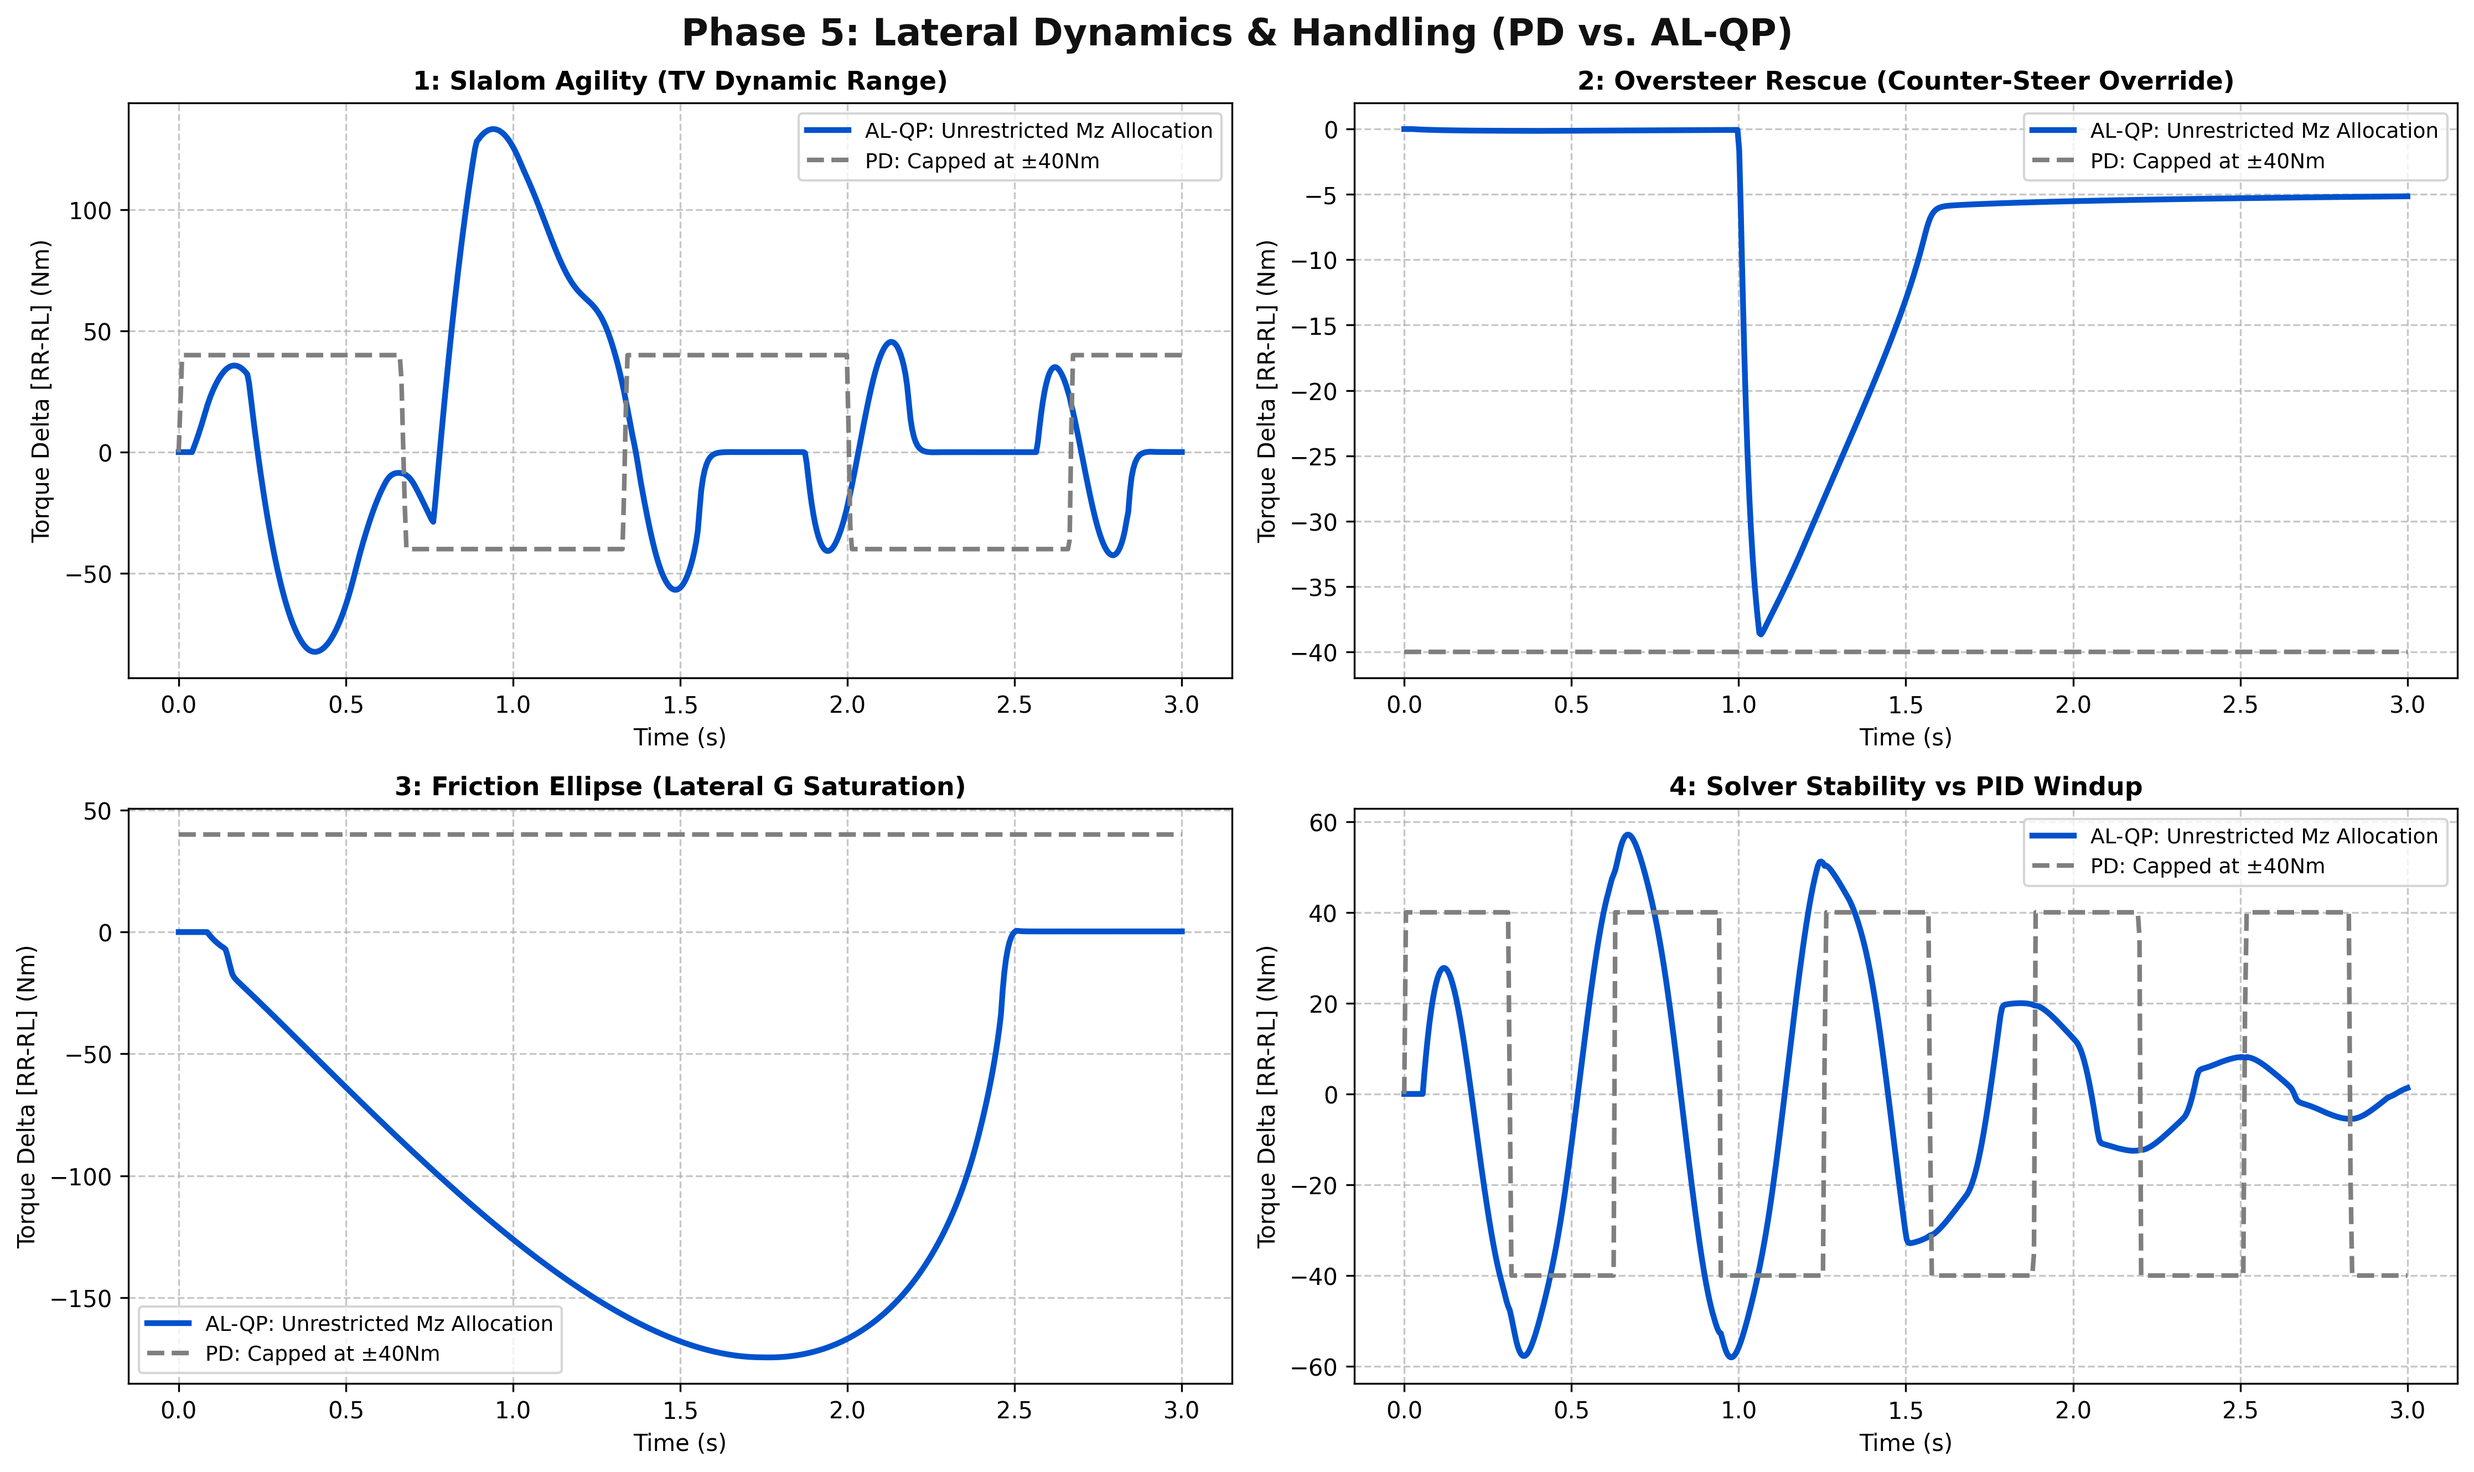
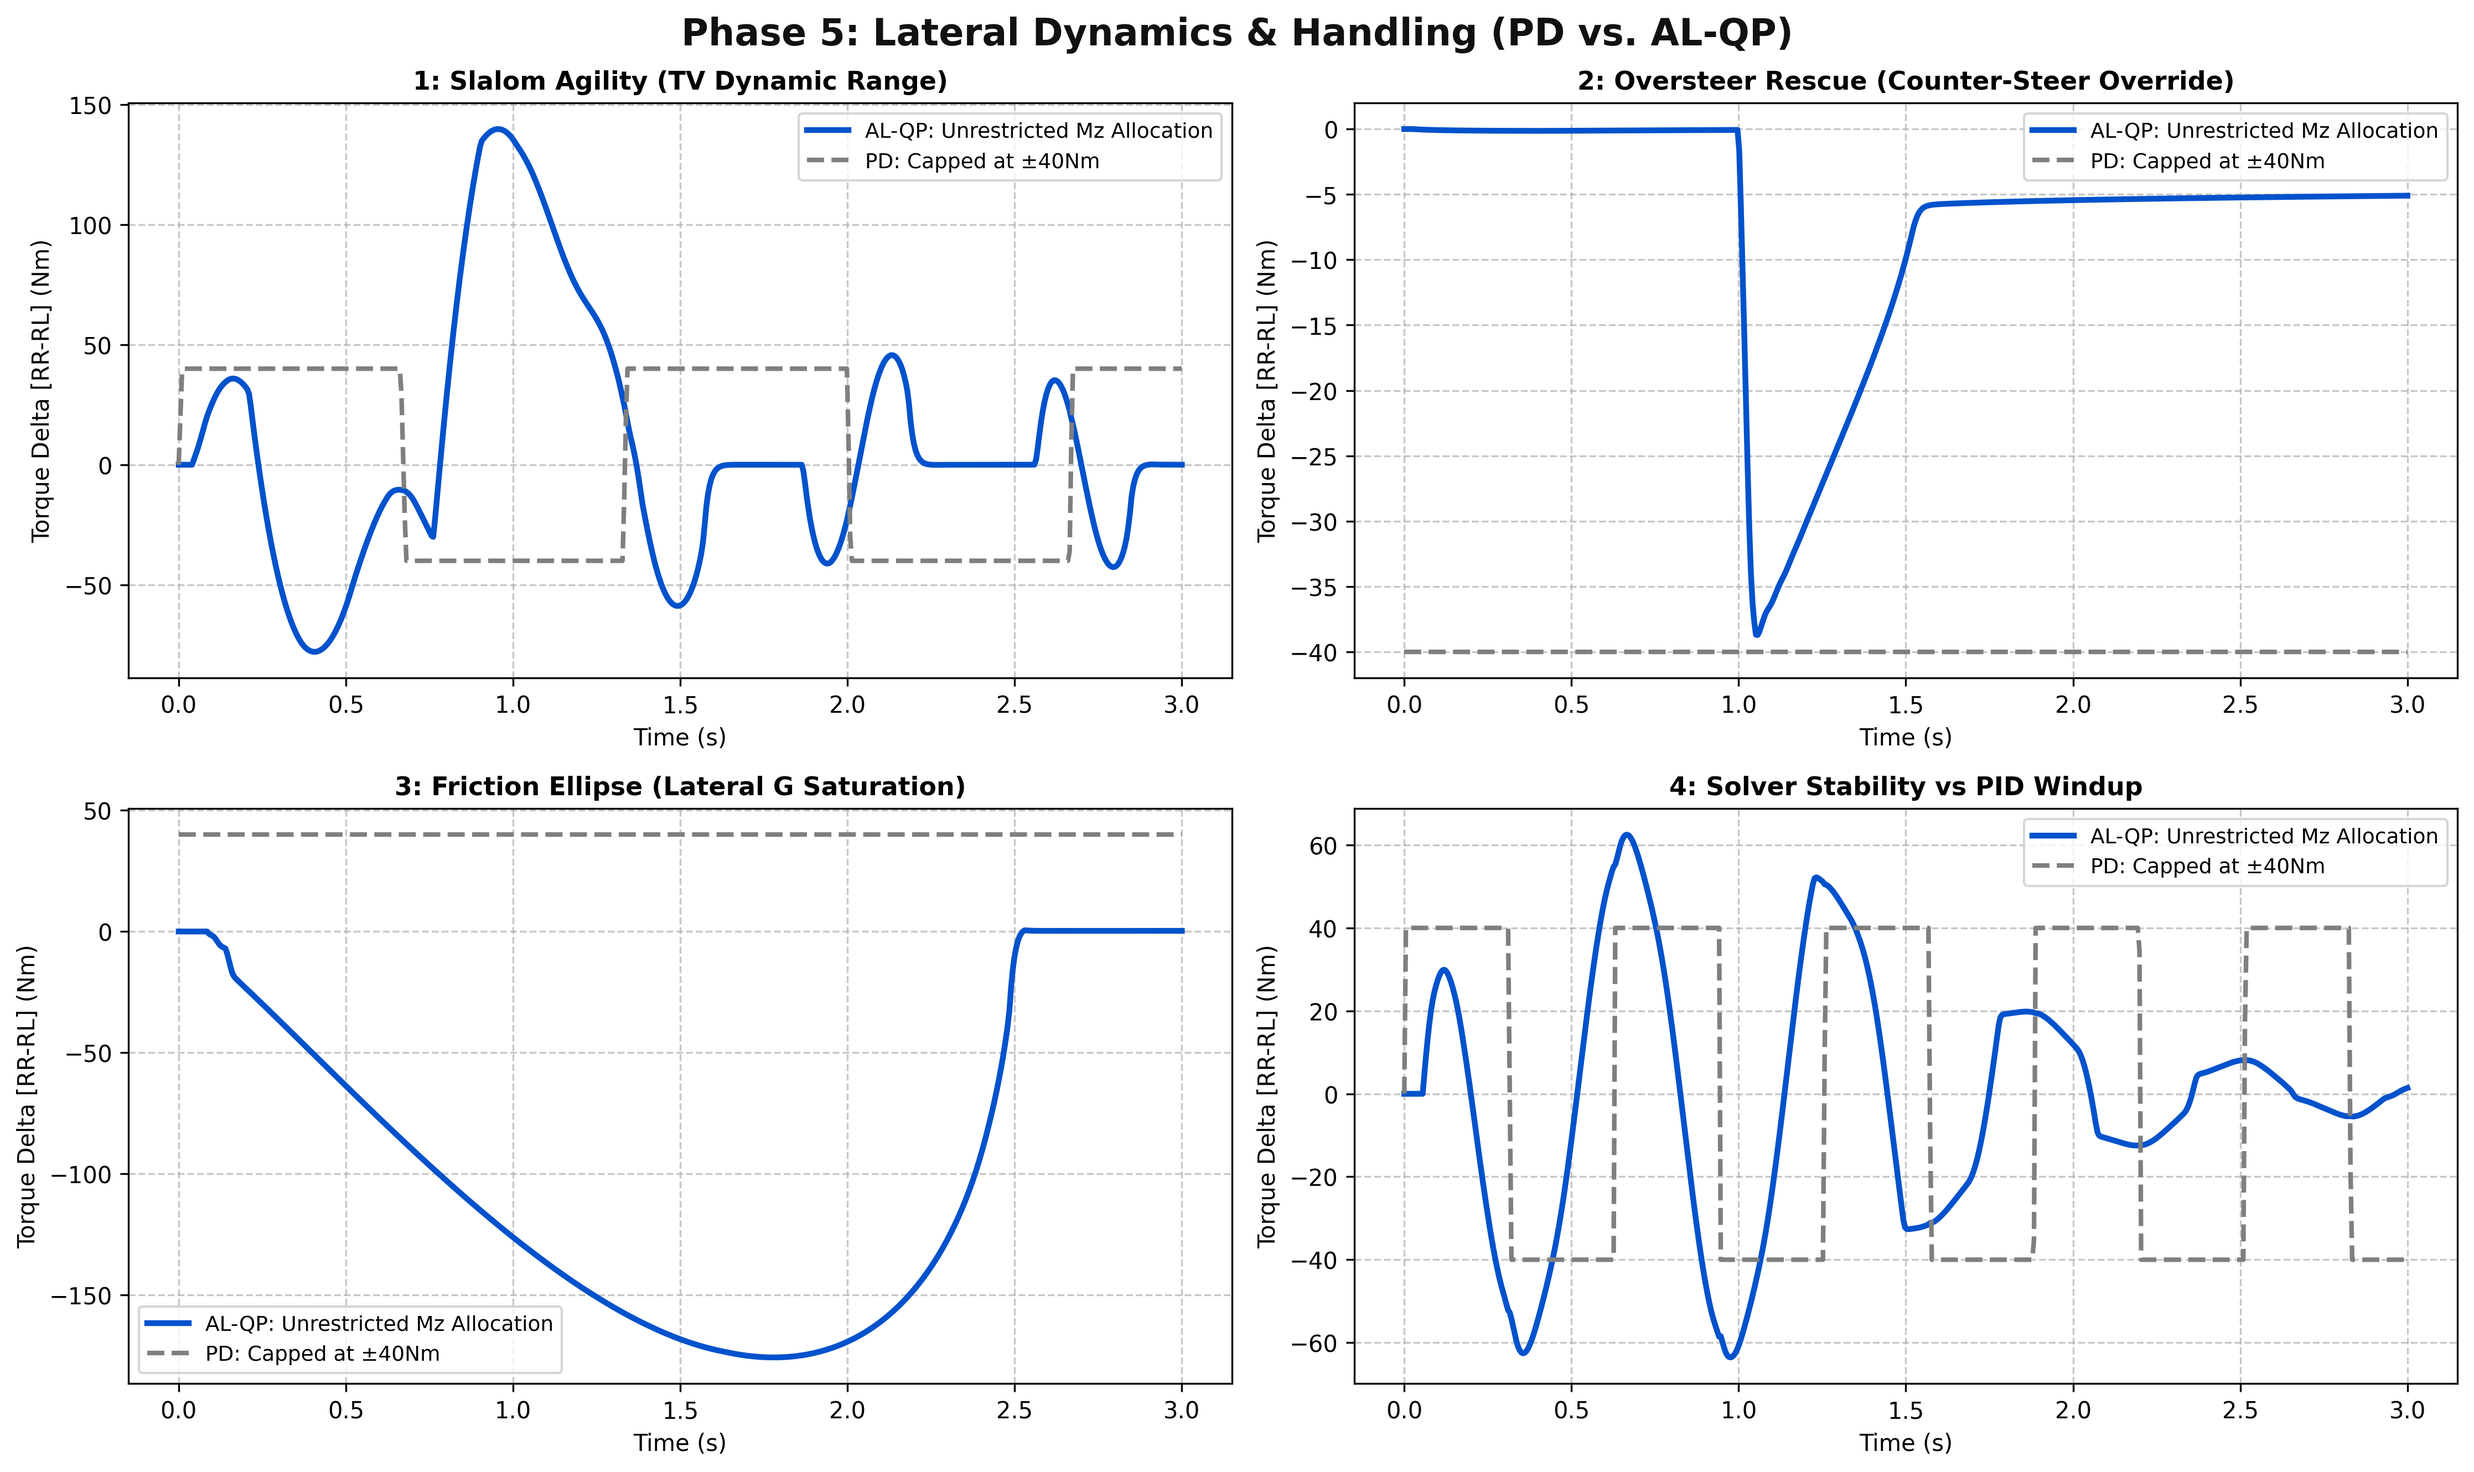
feat(v4): NMPC implementation and sanity checks trials

diff --git a/SOFTWARE/TeR_ECU/Libraries/TRQ_VECTORING/src/gp_torque_vectoring.c b/SOFTWARE/TeR_ECU/Libraries/TRQ_VECTORING/src/gp_torque_vectoring.c
@@ -67,7 +67,10 @@ void gp_tv_init(tv_state_t* state) {
     
     state->t_lb_rl_filt = 0.0f;
     state->t_lb_rr_filt = 0.0f;
-    state->delta_nmpc_filt = 0.0f; // <-- ADD THIS LINE
+    state->delta_notch_x1 = 0.0f;
+    state->delta_notch_x2 = 0.0f;
+    state->delta_notch_y1 = 0.0f;
+    state->delta_notch_y2 = 0.0f;
 
     float h = GP_W_REG + GP_W_SMOOTH;
     float a_sq = 2.0f / (GP_R_WHEEL * GP_R_WHEEL);
@@ -119,12 +122,50 @@ void gp_tv_step(
     state->ax_filt += alpha_lpf * (ax - state->ax_filt);
     state->ay_filt += alpha_lpf * (ay - state->ay_filt);
 
+    // ── Filter delta ONCE, here, before ANY consumer sees it ──────────
+    // Two-pole (cascaded) EMA on delta before EKF, TC, and both yaw-moment
+    // policy branches ever see it. A single 35ms-tau pole only rolls off at
+    // 6 dB/octave -- at 25 Hz (the encoder-noise test frequency) that still
+    // passes ~17% of the input amplitude, which is enough to drive a
+    // persistent, non-decaying ripple through the EKF's integrated vy state
+    // and through kp*wz_err (kp up to ~450). Cascading a second identical
+    // pole doubles the rolloff to 12 dB/octave, attenuating 25Hz to ~3% of
+    // input while leaving realistic driver steering (1.5-3 Hz chicane/
+    // slalom frequencies) attenuated only ~11% -- not perceptible as lag.
+    // 2nd-order notch filter tuned to GP_STEER_NOTCH_FREQ_HZ, applied BEFORE
+    // any consumer (EKF, TC, both yaw-moment policy branches) sees delta.
+    // Direct-form-I difference equation:
+    //   y[n] = x[n] + b1*x[n-1] + b2*x[n-2] - a1*y[n-1] - a2*y[n-2]
+    // with b1=-2cos(w0), b2=1, a1=-2*r*cos(w0), a2=r^2. Coefficients are
+    // recomputed from the live dt each tick (cheap: one cosf call) rather
+    // than hardcoded for a fixed 200Hz assumption, so this stays correct
+    // even if the loop rate ever changes.
+    {
+        const float w0 = 2.0f * GP_PI * GP_STEER_NOTCH_FREQ_HZ * dt;
+        const float cosw0 = cosf(w0);
+        const float notch_b1 = -2.0f * cosw0;
+        const float notch_b2 = 1.0f;
+        const float notch_a1 = -2.0f * GP_STEER_NOTCH_R * cosw0;
+        const float notch_a2 = GP_STEER_NOTCH_R * GP_STEER_NOTCH_R;
+
+        float x0 = delta;
+        float y0 = x0 + notch_b1 * state->delta_notch_x1 + notch_b2 * state->delta_notch_x2
+                       - notch_a1 * state->delta_notch_y1 - notch_a2 * state->delta_notch_y2;
+
+        state->delta_notch_x2 = state->delta_notch_x1;
+        state->delta_notch_x1 = x0;
+        state->delta_notch_y2 = state->delta_notch_y1;
+        state->delta_notch_y1 = y0;
+
+        delta = y0;
+    }
+
     float vx_safe = GP_MAX(fabsf(vx), 0.5f);
     
     // ─────────────────────────────────────────────────────────────────
     // 1. UNIFIED EXTENDED KALMAN FILTER (EKF) STEP
     // ─────────────────────────────────────────────────────────────────
-    // A. Time Update (Prediction)
+    // A. Time Update (Prediction) -- now receives FILTERED delta
     gp_ekf_predict(&state->ekf, delta, state->ax_filt, state->ay_filt, wz, vx, dt);
 
     // B. Measurement Updates (Sequential Scalar Fusion)
@@ -145,6 +186,7 @@ void gp_tv_step(
     gp_estimate_fy(vx, vy, wz_corr, delta, fz_est, fy_est);
     
     // --- NEW CLEAN BLOCK ---
+    // delta is already the filtered signal (see above, filtered before EKF).
     float k_us = gp_adaptive_k_us(fz_est);
     float wz_ref = (vx_safe * delta) / (GP_WB + k_us * vx_safe * vx_safe);
 
@@ -165,6 +207,9 @@ void gp_tv_step(
     ki *= mu_scale;
 
     float wz_err = wz_ref - wz_corr;
+
+    // delta is already filtered -- Branch 3's derivative feedforward
+    // differentiates the same clean signal the EKF and Branch 4 use.
     float delta_dot = (delta - state->delta_prev) / dt;
     state->delta_prev = delta;
 
@@ -208,16 +253,11 @@ void gp_tv_step(
     float mz_rate_max = GP_TV_RATE_LIMIT * dt * GP_TRACK_R / (2.0f * GP_R_WHEEL);
 
     #if defined(GP_TV_USE_NMPC) && (GP_TV_USE_NMPC == 1)
-        // ~35ms tau LPF (fc ~ 4.5Hz) for robust 25Hz encoder jitter rejection
-        float alpha_delta = GP_CLAMP(dt / (0.035f + dt), 0.0f, 1.0f);
-        state->delta_nmpc_filt += alpha_delta * (delta - state->delta_nmpc_filt);
-
-        // Recompute wz_ref using the FILTERED steering angle so r_ref inside NMPC does not jitter
-        float wz_ref_nmpc = (vx_safe * state->delta_nmpc_filt) / (GP_WB + k_us * vx_safe * vx_safe);
-        wz_ref_nmpc = GP_CLAMP(wz_ref_nmpc, -wz_max, wz_max);
-
+        // delta is already filtered; wz_ref (computed above from filtered
+        // delta) is identical to what wz_ref_nmpc would compute, so reuse it
+        // directly instead of recomputing.
         float states_nmpc[3] = { vx, vy, wz_corr };
-        gp_nmpc_step(states_nmpc, state->delta_nmpc_filt, wz_ref_nmpc, dt, mz_max_dyn, mz_rate_max,
+        gp_nmpc_step(states_nmpc, delta, wz_ref, dt, mz_max_dyn, mz_rate_max,
                     mu_scale, &state->nmpc, &mz_req);
         mz_req = GP_CLAMP(mz_req * os_gate * counter_steer_factor,
                         -mz_max_dyn, mz_max_dyn);

diff --git a/SOFTWARE/TeR_ECU/Libraries/TRQ_VECTORING/master_sanity_checks.py b/SOFTWARE/TeR_ECU/Libraries/TRQ_VECTORING/master_sanity_checks.py
@@ -77,9 +77,12 @@ class TVState(ctypes.Structure):
         ("ay_filt",        ctypes.c_float),
         ("t_ub_rl_filt",   ctypes.c_float),
         ("t_ub_rr_filt",   ctypes.c_float),
-        ("t_lb_rl_filt",   ctypes.c_float),
-        ("t_lb_rr_filt",   ctypes.c_float),
-        ("delta_nmpc_filt",ctypes.c_float),
+        ("t_lb_rl_filt",     ctypes.c_float),
+        ("t_lb_rr_filt",     ctypes.c_float),
+        ("delta_notch_x1",   ctypes.c_float),
+        ("delta_notch_x2",   ctypes.c_float),
+        ("delta_notch_y1",   ctypes.c_float),
+        ("delta_notch_y2",   ctypes.c_float),
     ]
 
 # Structural Safety Assertions
@@ -164,9 +167,10 @@ def default_regen_limits(enable=1, max_total_trq=400.0, max_charge_power_w=40000
     rg.max_charge_power_w = max_charge_power_w
     return rg
 
-def run_scenario(time_array, input_generator, non_idealities=None, regen_limits=None):
+def run_scenario(time_array, input_generator, non_idealities=None, regen_limits=None, lib=None):
+    lib = lib if lib is not None else gp_lib
     state = TVState()
-    gp_lib.gp_tv_init(ctypes.byref(state))
+    lib.gp_tv_init(ctypes.byref(state))
     state.tc.mu_surface[0] = 1.5
     state.tc.mu_surface[1] = 1.5
 
@@ -187,9 +191,9 @@ def run_scenario(time_array, input_generator, non_idealities=None, regen_limits=
         omega_c = (ctypes.c_float * 4)(*omega)
         t_out_c = (ctypes.c_float * 4)()
         
-        gp_lib.gp_tv_step(fx, delta, vx, vy, wz, ay, ax, 
-                          omega_c, brake, 60.0, 60.0, 0.0, 0, ctypes.byref(rg),
-                          dt, ctypes.byref(state), t_out_c)
+        lib.gp_tv_step(fx, delta, vx, vy, wz, ay, ax, 
+                       omega_c, brake, 60.0, 60.0, 0.0, 0, ctypes.byref(rg),
+                       dt, ctypes.byref(state), t_out_c)
         
         t_out_processed = [t_out_c[0], t_out_c[1], t_out_c[2], t_out_c[3]]
         if non_idealities is not None:
@@ -398,13 +402,13 @@ def evaluate_test_kpis(time_steps, t_rl, t_rr, t_diff, beta_log, alpha_log, test
     reset_color = "\033[0m"
     print(f"{color}{status:<18} | {test_name:<40} | MaxBeta: {max_beta_deg:4.1f}° | α_qp: {avg_alpha_qp:4.2f} | RMS: {noise_rms:5.1f}{reset_color}")
 
-def generate_report(scenarios, titles, filename, super_title, time_steps):
+def generate_report(scenarios, titles, filename, super_title, time_steps, lib=None):
     fig, axs = plt.subplots(2, 2, figsize=(15, 9))
     fig.suptitle(super_title, fontsize=16, fontweight='bold')
     
     for ax, (scenario, title) in zip(axs.flat, zip(scenarios, titles)):
         # Unpack all 6 returned telemetry arrays
-        rl, rr, diff, beta, alpha_qp, mz_sat = run_scenario(time_steps, scenario)
+        rl, rr, diff, beta, alpha_qp, mz_sat = run_scenario(time_steps, scenario, lib=lib)
         
         # Pass telemetry into KPI evaluator
         evaluate_test_kpis(time_steps, rl, rr, diff, beta, alpha_qp, title)
@@ -1717,8 +1721,15 @@ if __name__ == "__main__":
     t13 = ['34: Chicane Preview (108 km/h)', '35: Step Steer Overshoot Damping', 
            '36: Emergency Lane Change Impulse', '37: 25Hz Encoder Noise Smoothing']
 
+    # Phase 13 is explicitly the NMPC (Branch 4) horizon suite — it must run
+    # against gp_lib_nmpc, not the gp_lib alias (which points at Branch 3
+    # AL-QP). Running it under AL-QP silently tested the wrong controller:
+    # Branch 3's raw PID differentiator has no mechanism analogous to NMPC's
+    # r_effort/r_slew quadratic penalties, so no amount of upstream delta
+    # filtering was ever going to reproduce NMPC's noise rejection here.
     generate_report(s13, t13, 'sanity_phase13_nmpc_horizon.png', 
-                    'Phase 13: Branch 4 Embedded NMPC Horizon Performance', time_steps)
+                    'Phase 13: Branch 4 Embedded NMPC Horizon Performance', time_steps,
+                    lib=gp_lib_nmpc)
 
     # ------------------ SECTION E.7: PHASE 14 — BRANCH 3 VS BRANCH 4 DOGFIGHT ------------------
     print("\nStarting Phase 14: Dogfight Comparisons (AL-QP Branch 3 vs. NMPC Branch 4)...")

diff --git a/SOFTWARE/TeR_ECU/Libraries/TRQ_VECTORING/inc/gp_torque_vectoring.h b/SOFTWARE/TeR_ECU/Libraries/TRQ_VECTORING/inc/gp_torque_vectoring.h
@@ -25,6 +25,8 @@
 #define GP_YAW_DEADZONE_RADS        0.0175f  // ~1.0 deg/s yaw rate deadzone
 #define GP_ACCEL_LPF_TAU            0.0200f  // 20ms LPF (8 Hz cutoff) for accelerometers
 
+#define GP_STEER_NOTCH_FREQ_HZ  25.0f  // Known encoder-artifact frequency to reject
+#define GP_STEER_NOTCH_R         0.90f  // Notch pole radius (closer to 1.0 = narrower notch, more surgical)
 // ── Profiling Telemetry Exports (Cortex-M Target Only) ────────────────
 #if defined(__arm__) || defined(__ARM_ARCH)
 extern volatile uint32_t g_tv_exec_cycles;
@@ -66,7 +68,21 @@ typedef struct {
     float t_ub_rr_filt;
     float t_lb_rl_filt;   // NEW: filtered per-wheel regen (negative-torque) bound
     float t_lb_rr_filt;   // NEW
-    float delta_nmpc_filt; // NMPC steering LPF state (~15ms tau)
+
+    // 25 Hz encoder-noise rejection: 2nd-order (biquad) notch filter memory,
+    // direct form I. REPLACES the earlier two-pole low-pass cascade. That
+    // cascade only bought 6 dB/octave PER pole -- at 25 Hz two poles gave
+    // ~-30 dB attenuation, but kp/kd gains up to ~450/~30 still turned the
+    // surviving ~3% residual into tens of Nm of ripple. A notch tuned
+    // EXACTLY to the known disturbance frequency rejects that one frequency
+    // far more aggressively (tunable to 40+ dB) while leaving DC and every
+    // other frequency -- including the 1.5-3 Hz band real chicane/slalom
+    // steering occupies -- at unity gain. This is the correct tool once the
+    // disturbance frequency is known and fixed, rather than more poles.
+    float delta_notch_x1;  // x[n-1]
+    float delta_notch_x2;  // x[n-2]
+    float delta_notch_y1;  // y[n-1]
+    float delta_notch_y2;  // y[n-2]
 } tv_state_t;
 
 void gp_tv_init(tv_state_t* state);
